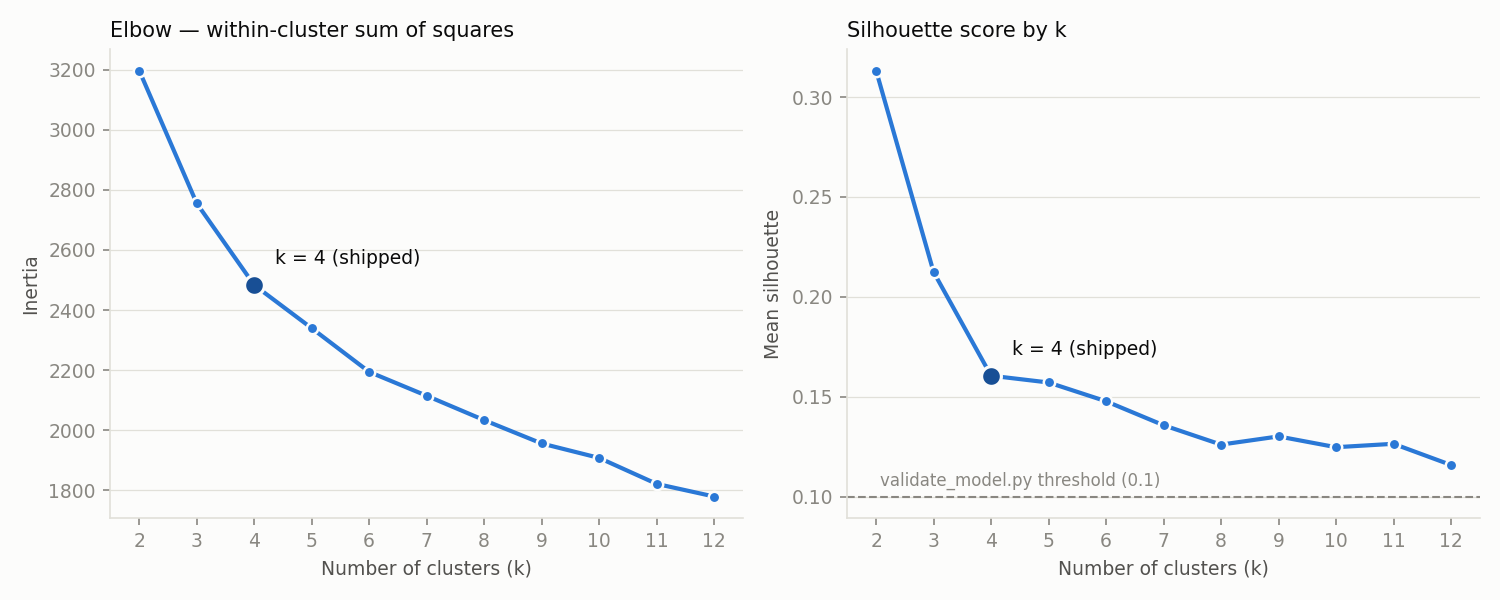
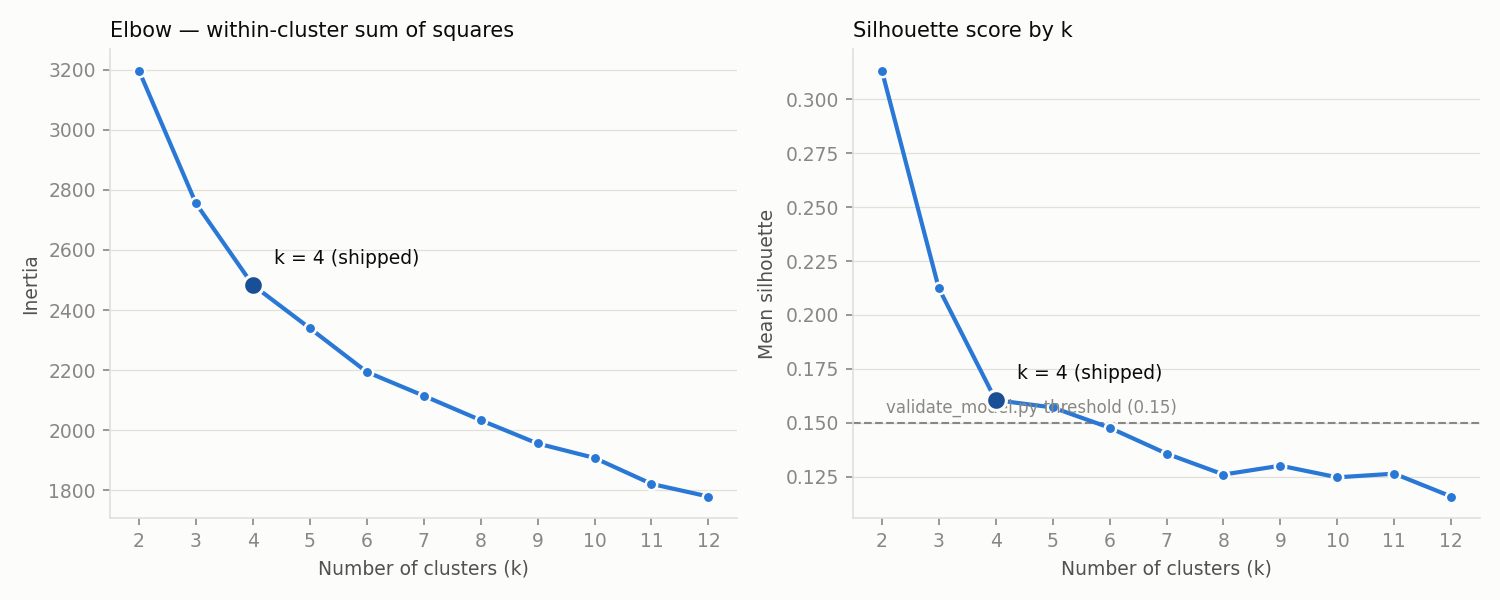
Run the pipeline and the gates in CI, not just the tests (#19)
CI ran ruff, mypy and pytest but never executed preprocess.py,
select_k.py or validate_model.py, so every quality gate in the repo was
decorative -- a clustering could regress or degenerate and nothing would
notice until someone ran the pipeline by hand.

CI now builds the model, checks the shipped k is still defensible
(select_k.py --check), runs the validator, runs the tests, and
regenerates the figures so the documented regeneration path is exercised
too. Pip caching added while touching the workflow.

Also regenerates model_selection.png, which still showed the old 0.1
silhouette threshold line.

diff --git a/README.md b/README.md
@@ -54,7 +54,7 @@ flowchart TD
 
     subgraph ops["Build & CI"]
         DOCKER["Dockerfile<br/><i>installs deps, runs preprocess.py<br/>at build time, serves on 8765</i>"]
-        CI["GitHub Actions — .github/workflows/ci.yml<br/><i>ruff → mypy (all modules) → pytest</i>"]
+        CI["GitHub Actions — .github/workflows/ci.yml<br/><i>ruff → mypy → preprocess → select_k --check →<br/>validate → pytest → make_figures</i>"]
     end
 
     RAW --> PRE
@@ -76,6 +76,9 @@ flowchart TD
     APP --> BROWSER
     RAW --> DOCKER
     DOCKER --> APP
+    CI --> PRE
+    CI --> SEL
+    CI --> VAL
     CI --> TEST
 ```
 
@@ -124,7 +127,7 @@ The loader rejects a stale artifact rather than silently misusing it: wrong form
 | `test_app.py` | Smoke tests over the dashboard module — import, cached loading, similarity search, and positional player lookup. |
 | `conftest.py` | Session fixture that generates `processed_nba_stats.csv` if it's missing, so `pytest` works from a fresh clone. |
 | `Dockerfile` | Container build: install deps, run preprocessing at build time, serve on port 8765. |
-| `.github/workflows/ci.yml` | CI on push/PR to `main`: `ruff check` → `mypy .` (every module, `app.py` included) → `pytest`. |
+| `.github/workflows/ci.yml` | CI on push/PR to `main`: `ruff check` → `mypy .` (every module, `app.py` included) → build the model → `select_k.py --check` → `validate_model.py` → `pytest` → regenerate figures. |
 
 Regenerate the artifacts and figures after any model change so the numbers above stay true:
 
